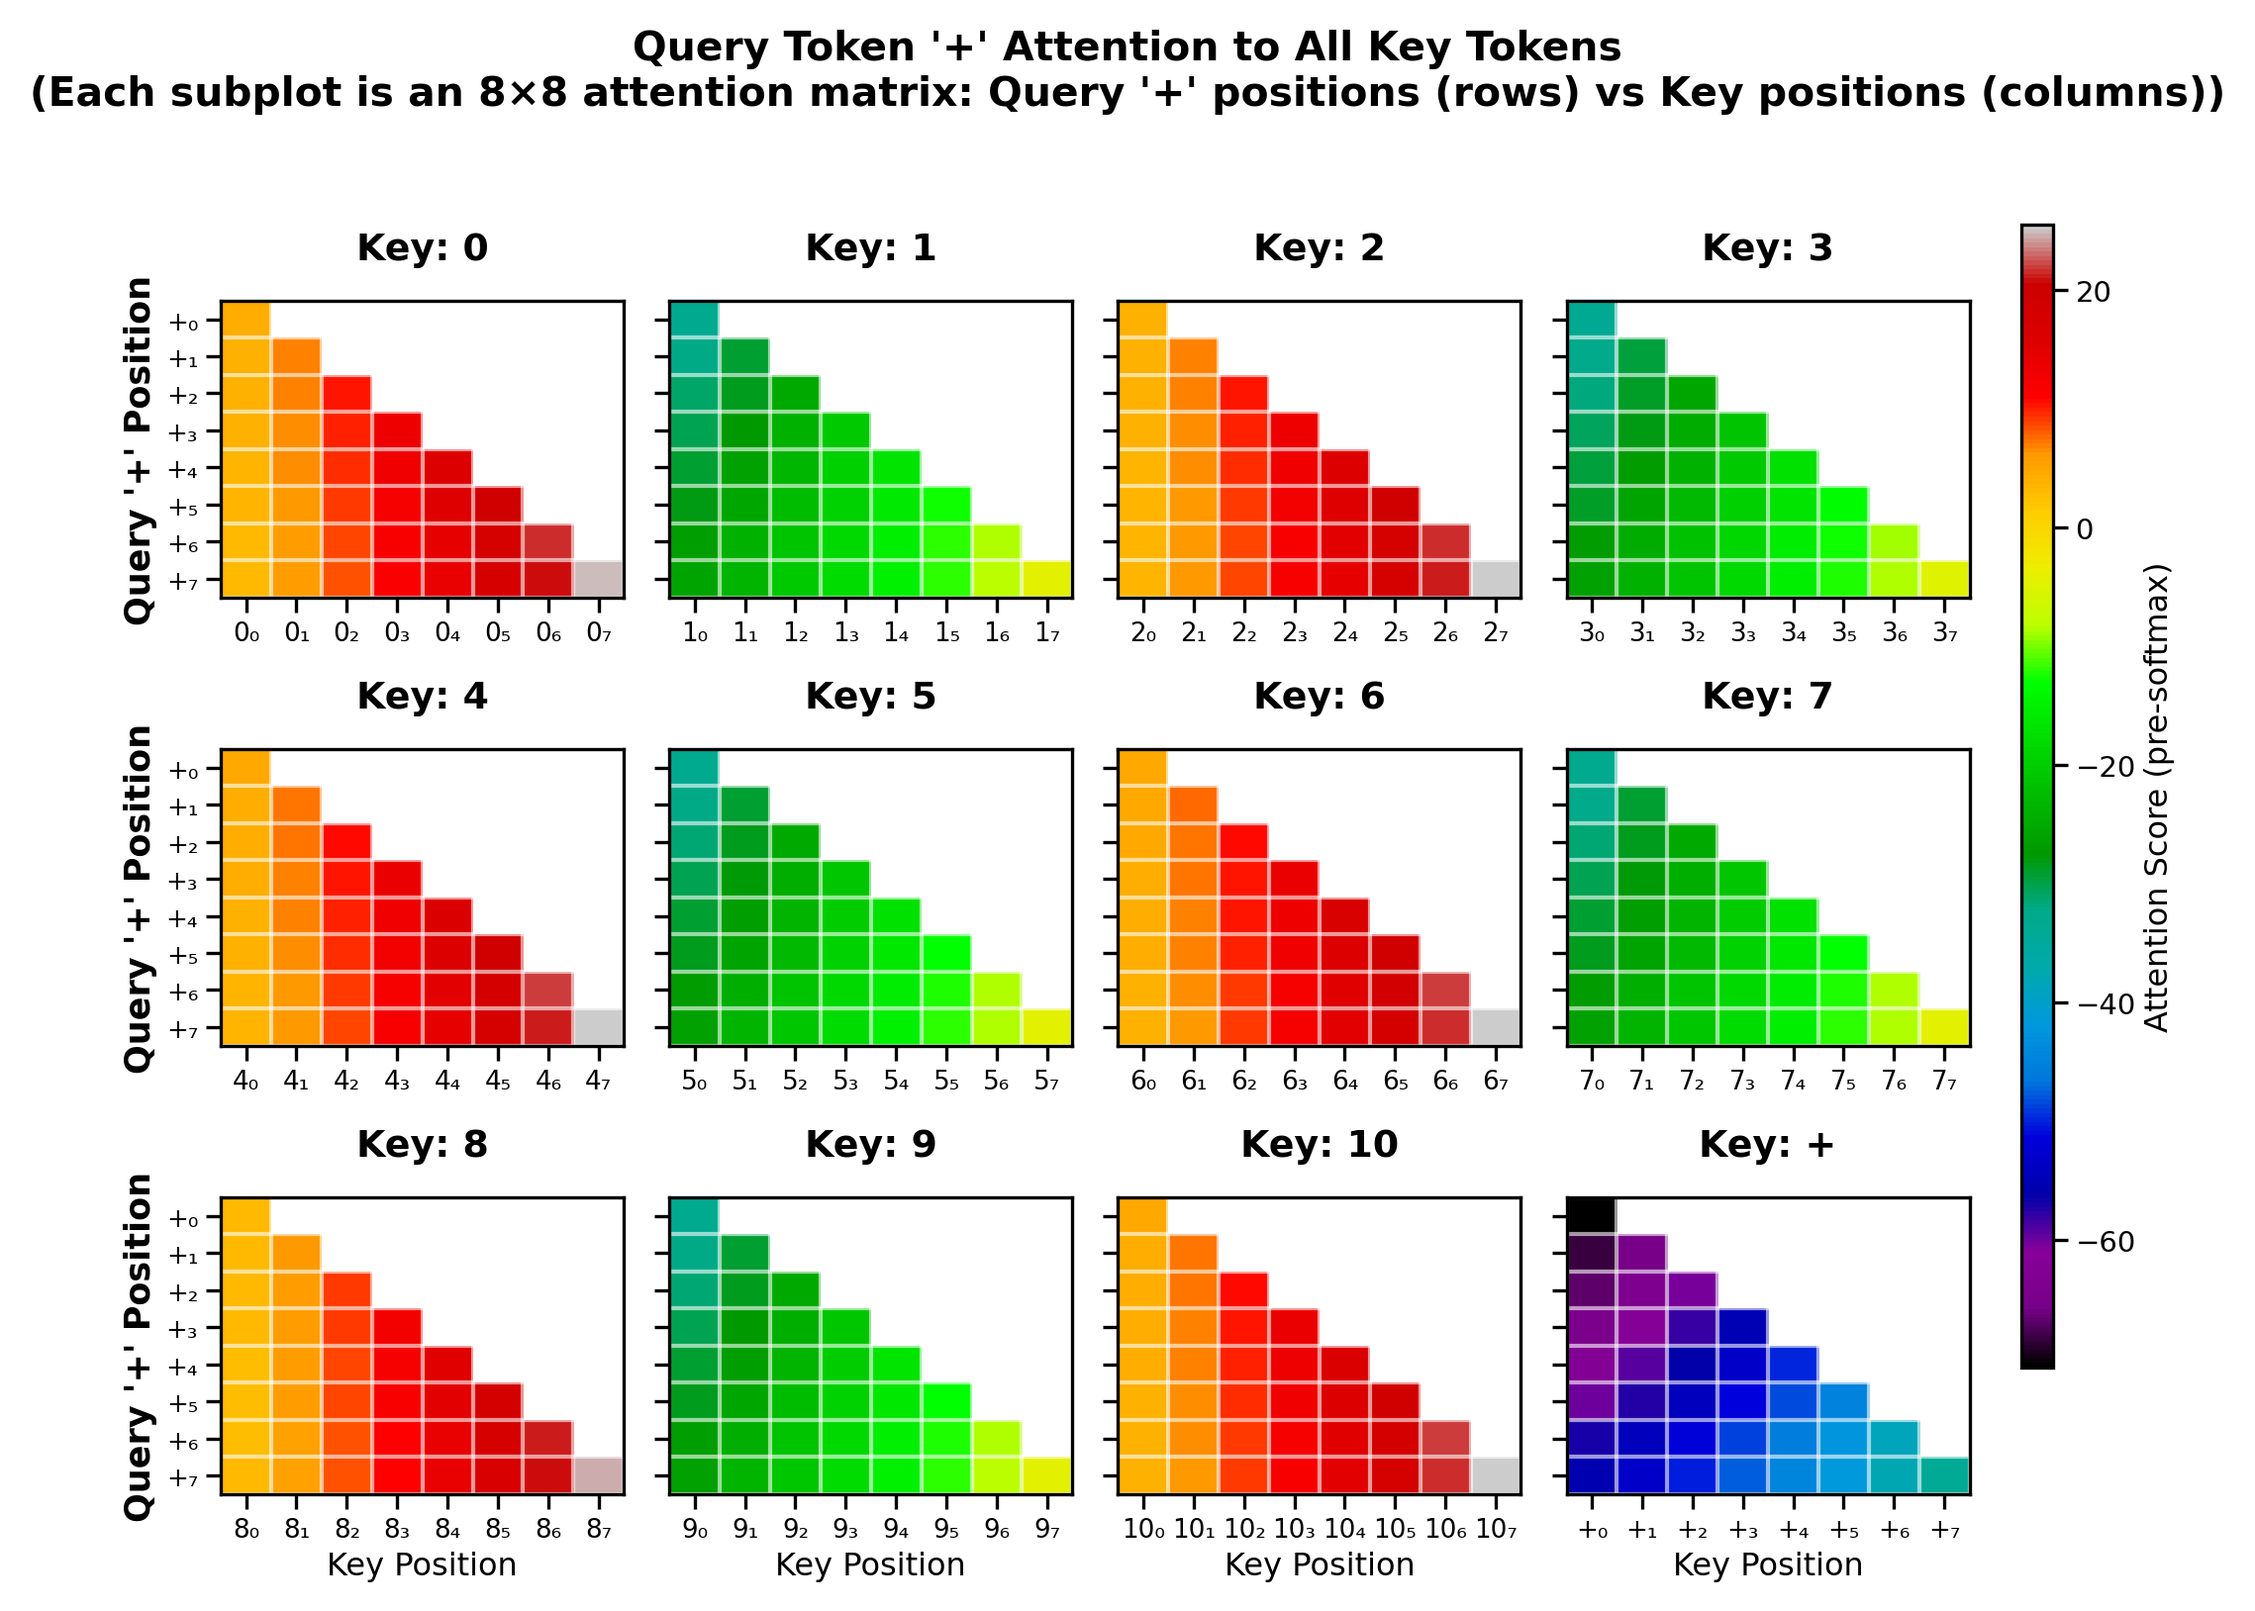
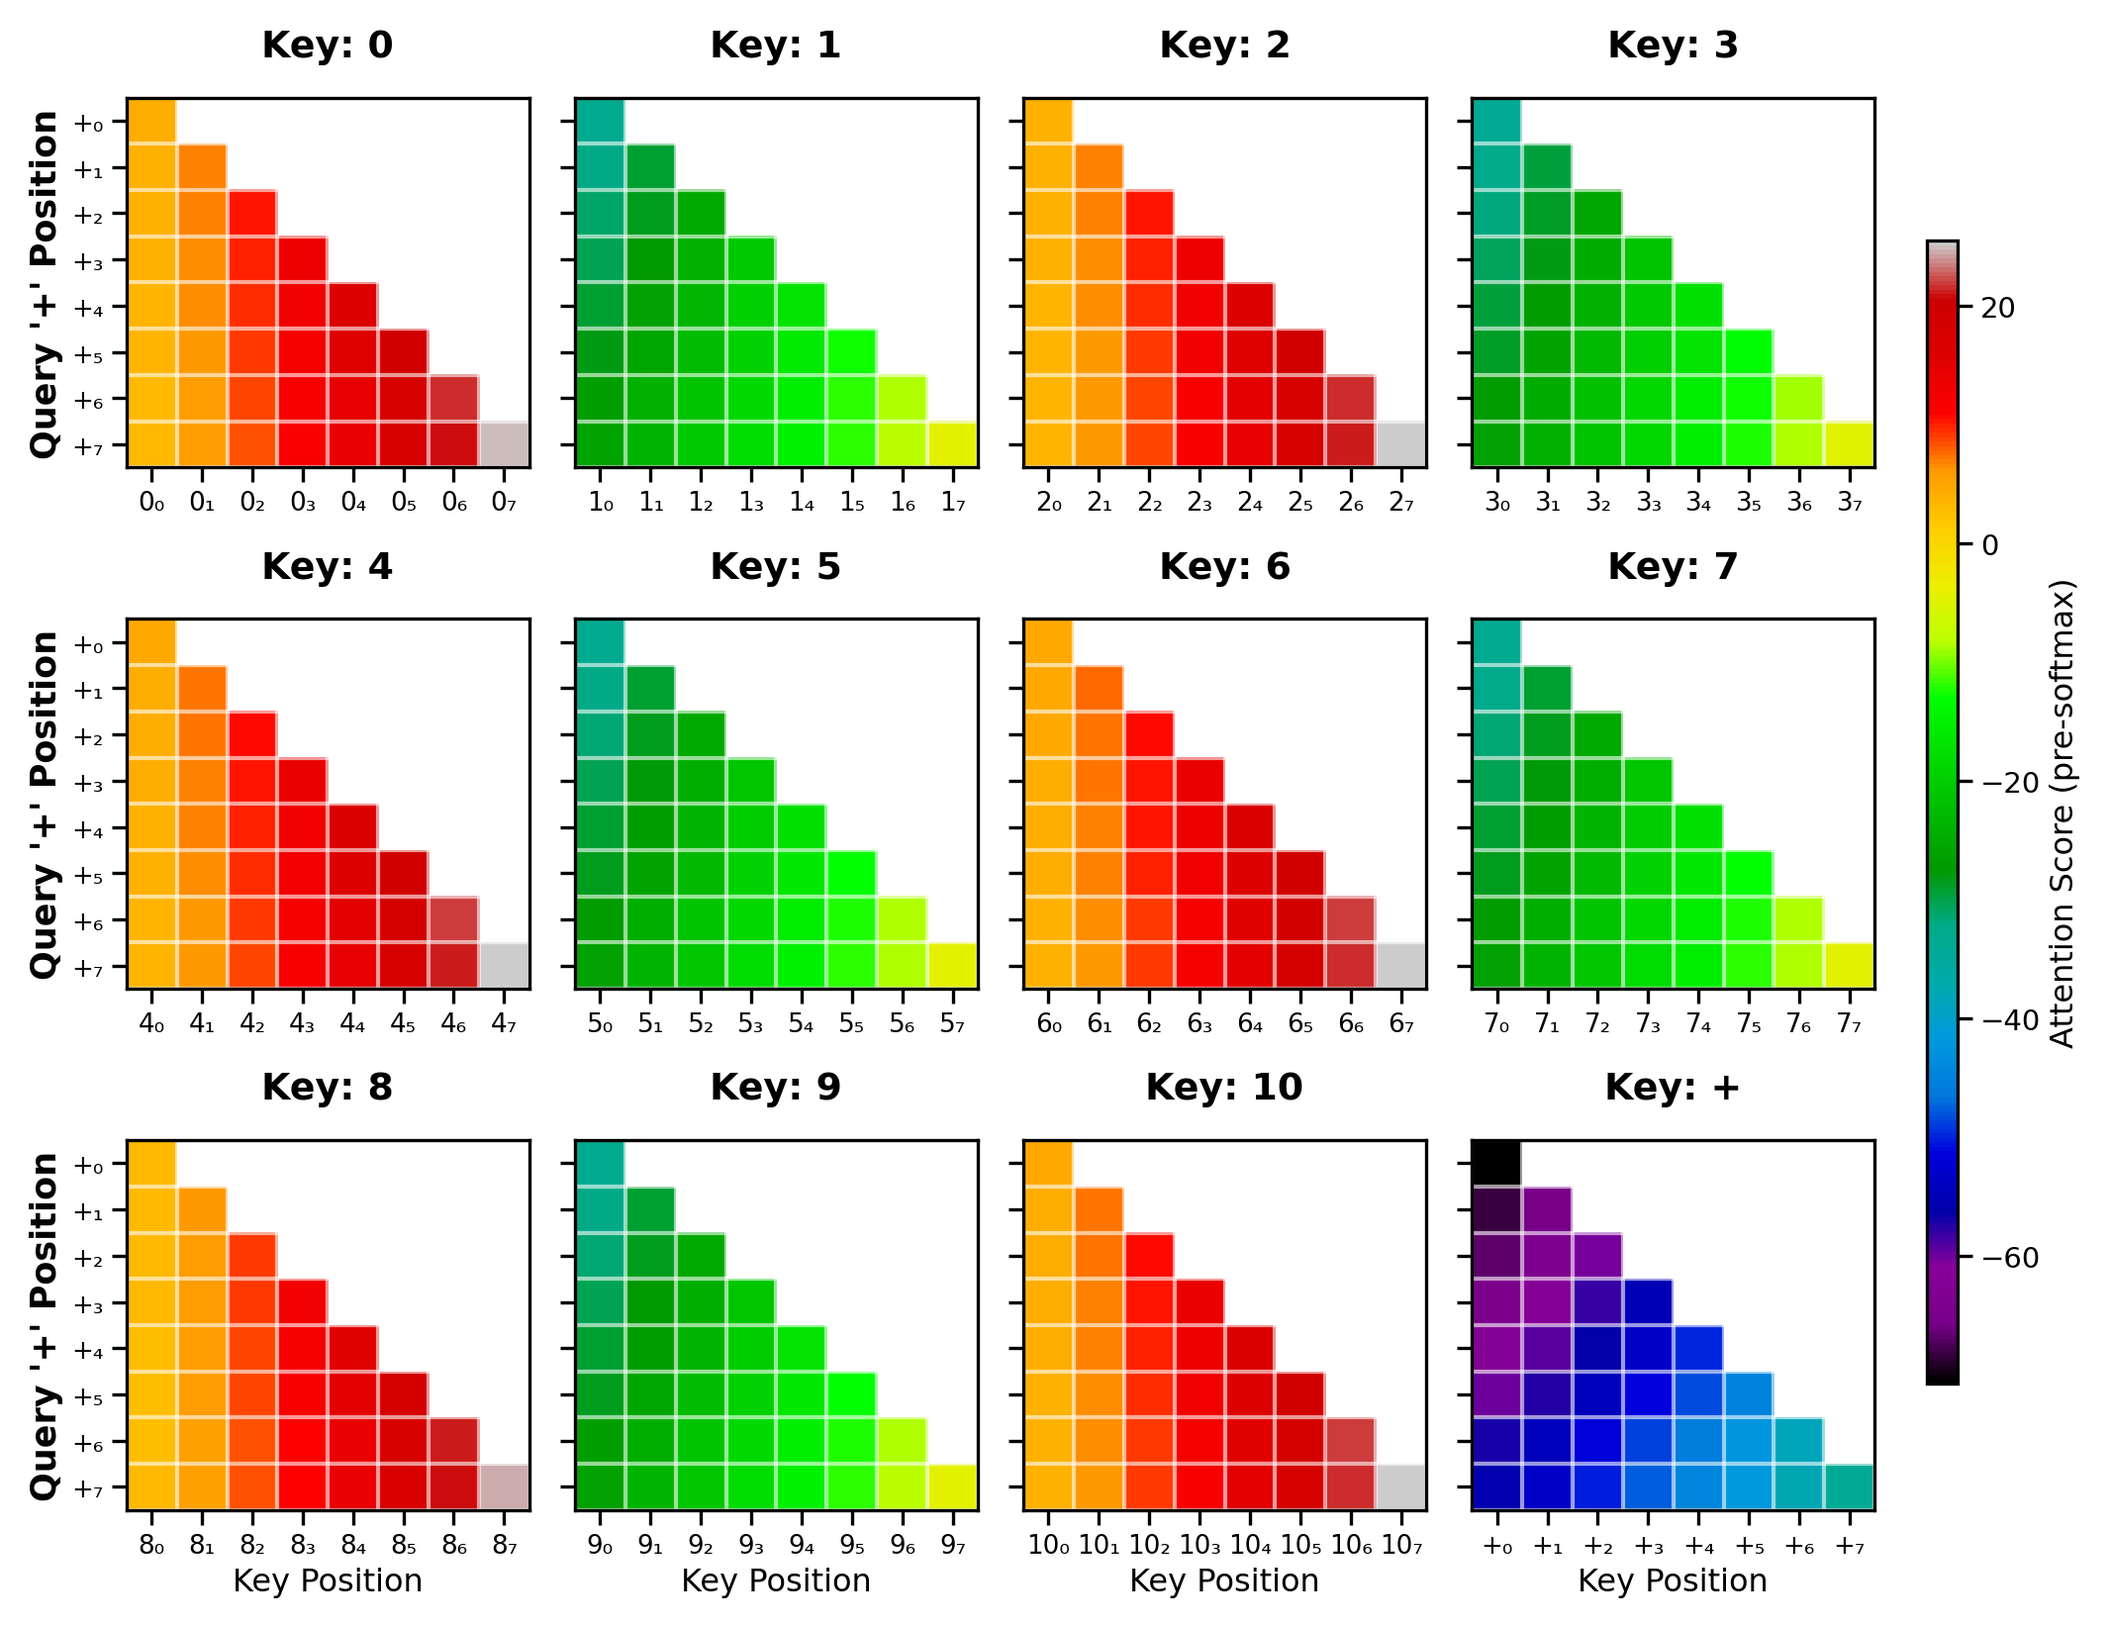
qkfig

diff --git a/plotting/11_qk_full_attention_heatmap.py b/plotting/11_qk_full_attention_heatmap.py
@@ -274,12 +274,8 @@ def plot_qk_full_attention_heatmap_last_row(model, itos, save_path: str = None):
         row, col = idx // n_cols, idx % n_cols
         axes[row, col].axis('off')
     
-    # Add overall title - emphasize that each subplot is itself a matrix
-    fig.suptitle(f"Query Token '+' Attention to All Key Tokens\n(Each subplot is an {block_size}×{block_size} attention matrix: Query '+' positions (rows) vs Key positions (columns))", 
-                 fontsize=14, fontweight='bold', y=0.97)
-    
     # Colorbar: anchor to the last subplot only so it sits on the right, not in the middle
-    plt.tight_layout(rect=[0, 0, 0.92, 0.94])
+    plt.tight_layout(rect=[0, 0, 0.92, 1.0])
     cbar_ax = fig.add_axes([0.93, 0.15, 0.015, 0.7])  # [left, bottom, width, height] in figure coords
     cbar = fig.colorbar(im, cax=cbar_ax)
     cbar.set_label("Attention Score (pre-softmax)", fontsize=11)
